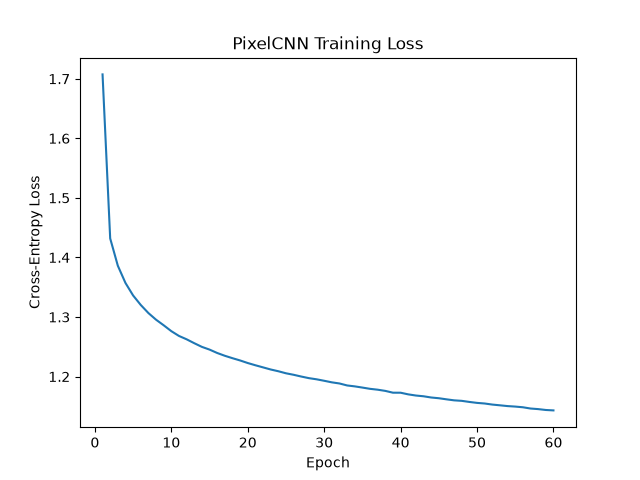
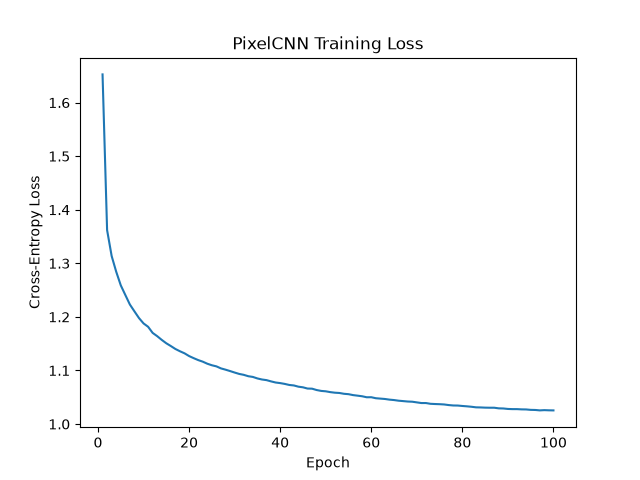
Edit README.md to reflect changes made to pixelCNN training and evaluation (predict.py)

diff --git a/recognition/VQ-VAE_s48921303/README.md b/recognition/VQ-VAE_s48921303/README.md
@@ -1,11 +1,7 @@
-# notes for self for what im going to write in readme.md
-- when explaining vqvae need to highlight key things such as discrete  latent variables
-- baseline model (vae) should be  matching architecture of vqvae for comparison and then what the vqvae provides that vae doesnt rather than just using baseline in paper
-
 # VQ-VAE for Generating Privacy-Preserving Synthetic Hip MRI Cohorts
 
 ## Project Description
-In this project, I aim to address the challenges of clinical data scarcity and stringent patient privacy laws by using a Vector Quantised Variational Autoencoder (VQ-VAE) to synthesise realistic 2D hip MRI cohorts. Due to strict patient confidentiality laws, medical imaging is frequently restricted from open research, leading to limited clinical datasets. This constrains the development of robust models and clinical assessment tools. To overcome these limitations, I developed a generative modelling pipeline pairing a VQ-VAE with a Gated PixelCNN prior, benchmarked against a baseline Variational Autoencoder (VAE). The primary objective is to evaluate whether discrete representation learning can faithfully capture authentic physiological tissue boundaries and anatomical structures in hip MRI scans. By generatingr realistic such realistic MRI cohorts that preserve patient privacy, I aim to expand scarce medical imaging datasets and facilitate data augmentation for downstream research.
+In this project, I aim to address the challenges of clinical data scarcity and stringent patient privacy laws by using a Vector Quantised Variational Autoencoder (VQ-VAE) to synthesise realistic 2D hip MRI cohorts. Due to strict patient confidentiality laws, medical imaging is frequently restricted from open research, leading to limited clinical datasets. This constrains the development of robust models and clinical assessment tools. To overcome these limitations, I developed a generative modelling pipeline pairing a VQ-VAE with a Gated PixelCNN prior, benchmarked against a baseline Variational Autoencoder (VAE). The primary objective is to evaluate whether discrete representation learning can faithfully capture authentic physiological tissue boundaries and anatomical structures in hip MRI scans. By generating realistic synthetic MRI cohorts that preserve patient privacy, I aim to expand scarce medical imaging datasets and facilitate data augmentation for downstream research.
 
 ## Models
 ### VQ-VAE
@@ -94,11 +90,35 @@ If the VQ-VAE fails to reach target SSIM, I will expand the model capacity by sc
 - 24 GB of VRAM accommodated full batch training (batch size of 64)
 - GPU memory consumption measured within train.py using PyTorch CUDA runtime APIs.
 
+### File Directory Structure
+```
+VQ-VAE_s48921303/
+├── README_images/
+│   ├── PixelCNN_Architecture.png
+│   ├── PixelCNN_Loss_Curve.png
+│   ├── VAE_Generation.png
+│   ├── VAE_Loss_Curve.png
+│   ├── VAE_Reconstruction.png
+│   ├── VAE_SSIM_Curve.png
+│   ├── VQ_VAE_Architecture.png
+│   ├── VQ_VAE_Generation.png
+│   ├── VQ_VAE_Generation_Memorisation_Audit.png
+│   ├── VQ_VAE_Loss_Curve.png
+│   ├── VQ_VAE_Perplexity_Curve.png
+│   ├── VQ_VAE_Reconstruction.png
+│   └── VQ_VAE_SSIM_Curve.png
+├── README.md
+├── dataset.py
+├── modules.py
+├── predict.py
+└── train.py
+```
+
 ### Execution
-Execution involves a two-stage pipeline where `train.py` must be executed first followed by `predict.py`. `train.py` trains the models, tracks validation convergence, and writes the timestamped weights and training curves to disk. `predict.py` loads the saved weights to perform final test evaluation, profile computational resources (parameter counts, batch latency, and peak VRAM), compute test metrics (reconstruction SSIM, FID-2048, FID-192, and KID), and save deterministic reconstruction comparisons (`recon.png`) and generated samples (`generated.png`) to a timestamped `eval/` directory.
+Execution involves a two-stage pipeline where `train.py` must be executed first followed by `predict.py`. `train.py` trains the models, tracks validation convergence, and writes the timestamped weights and training curves to disk. `predict.py` loads the saved weights to perform final test evaluation, profile computational resources (parameter counts, batch latency, and peak VRAM), compute test metrics (reconstruction SSIM, FID-2048, FID-192, and KID), and save deterministic reconstruction comparisons (`recon.png`), generated samples (`generated.png`), and nearest-neighbour memorisation audit grids (`memorisation_audit.png`) to a timestamped `eval/` directory.
 
 #### 1. Model Training (`train.py`)
-`train.py` handles data loading with training-only data augmentation, optimiser setup, validation metric tracking, early stopping, and automatic logging of model weights, CSV metrics, and training curves.
+`train.py` handles data loading with training-only data augmentation, optimiser setup, validation metric tracking, early stopping, and automatic logging of model weights, CSV metrics, and training curves. To accelerate PixelCNN training and eliminate redundant on-the-fly CPU data augmentations, `train.py` pre-extracts the discrete $64 \times 32$ codebook token grids directly onto the compute device prior to prior training.
 
 ##### CLI Arguments for `train.py`
 
@@ -106,6 +126,7 @@ Execution involves a two-stage pipeline where `train.py` must be executed first 
 | :--- | :--- | :--- | :--- |
 | `--model` | `str` | Required | Architecture to train: `'vqvae'` or `'vae'`. |
 | `--data_dir` | `str` | Required | Root directory containing `keras_slices_train` and `keras_slices_validate`. |
+| `--vqvae_path` | `str` | `None` | Optional path to directory containing pre-trained `VQVAE.pth` to skip VQ-VAE training. |
 | `--vqvae_epochs` | `int` | `30` | Maximum training epochs for the VQ-VAE model (monitored by early stopping). |
 | `--pixelcnn_epochs`| `int` | `60` | Training epochs for the PixelCNN. |
 | `--vae_epochs` | `int` | `30` | Maximum training epochs for the baseline VAE model. |
@@ -116,7 +137,8 @@ Execution involves a two-stage pipeline where `train.py` must be executed first 
 | `--seed` | `int` | `42` | Random seed for reproducibility. |
 | `--test` | `flag` | `False` | Truncates dataset loading to 20 slices for pipeline smoke-testing. |
 
-##### Example Training Commands
+**Example Training Commands**
+
 Train the baseline VAE model:
 ```
 python train.py --model vae --data_dir ./HipMRI --embedding_dim 64 --batch_size 64 --vae_epochs 30 --lr 0.0001
@@ -127,8 +149,13 @@ Train the VQ-VAE + PixelCNN pipeline:
 python train.py --model vqvae --data_dir ./HipMRI --num_embeddings 32 --embedding_dim 64 --batch_size 64 --vqvae_epochs 30 --pixelcnn_epochs 60 --lr 0.0001
 ```
 
+Train the PixelCNN prior using pre-trained VQ-VAE weights:
+```
+python train.py --model vqvae --data_dir ./HipMRI --vqvae_path ./vqvae --num_embeddings 32 --embedding_dim 64 --batch_size 64 --pixelcnn_epochs 60 --lr 0.0001
+```
+
 #### 2. Model Evaluation (`predict.py`)
-`predict.py` loads saved model weights to profile computational resources (trainable parameters, batch inference latency, and peak VRAM allocation) evaluate test reconstruction SSIM and generative distribution metrics (FID-2048, FID-192, and KID) and export deterministic reconstruction comparisons and generation to a timestamped `eval/` directory.
+`predict.py` loads saved model weights to profile computational resources (trainable parameters, batch inference latency, and peak VRAM allocation), evaluate test reconstruction SSIM and generative distribution metrics (FID-2048, FID-192, and KID), and export deterministic reconstruction comparisons (`recon.png`), generation samples (`generated.png`), and the nearest-neighbour memorisation audit (`memorisation_audit.png`) to a timestamped `eval/` directory.
 
 ##### CLI Arguments for `predict.py`
 
@@ -142,11 +169,13 @@ python train.py --model vqvae --data_dir ./HipMRI --num_embeddings 32 --embeddin
 | `--samples` | `int` | `8` | Number of test slices to sample deterministically for reconstruction and synthetic generation grids. |
 | `--fid_samples` | `int` | `200` | Number of synthetic images generated to compute FID and KID distribution metrics. |
 | `--batch_size` | `int` | `32` | Mini-batch size for DataLoader evaluation and batched sampling. |
-| `--temperature` | `float` | `0.9` | Softmax sampling temperature for autoregressive PixelCNN prior generation. |
+| `--temperature` | `float` | `0.8` | Softmax sampling temperature for autoregressive PixelCNN prior generation. |
+| `--top_k` | `int` | `0` | Top-k sampling threshold filtering tail tokens (0 disables). |
 | `--seed` | `int` | `42` | Random seed for deterministic test slice selection and reproducibility. |
 | `--test` | `flag` | `False` | Truncates test dataset loading to 20 slices for pipeline smoke-testing. |
 
-##### Example Evaluation Commands
+**Example Evaluation Commands**
+
 Evaluate the baseline VAE model:
 ```
 python predict.py --model vae --path ./vae --data_dir ./HipMRI --embedding_dim 64 --batch_size 32 --samples 8 --fid_samples 200
@@ -154,7 +183,7 @@ python predict.py --model vae --path ./vae --data_dir ./HipMRI --embedding_dim 6
 
 Evaluate the VQ-VAE + PixelCNN pipeline:
 ```
-python predict.py --model vqvae --path ./vqvae --data_dir ./HipMRI --num_embeddings 32 --embedding_dim 64 --batch_size 32 --samples 8 --fid_samples 200 --temperature 0.9
+python predict.py --model vqvae --path ./train/<timestamp> --data_dir ./HipMRI --num_embeddings 32 --embedding_dim 64 --batch_size 32 --samples 8 --fid_samples 200 --temperature 0.8
 ```
 
 ## Preprocessing
@@ -173,18 +202,27 @@ python predict.py --model vqvae --path ./vqvae --data_dir ./HipMRI --num_embeddi
   - Validation Set (`keras_slices_validate`): 540 slices of shape $256 \times 128$. Evaluated at the end of each epoch to track validation SSIM and codebook perplexity, using early stopping (`patience=7`) to restore the best model weights.
   - Test Set (`keras_slices_test`): 660 slices of shape $256 \times 128$. Reserved for `predict.py` to evaluate test metrics (SSIM, FID, KID), profile computational resource usage (batch latency and peak VRAM), and output reconstruction comparisons (`recon.png`) and generation samples (`generated.png`).
 
+### Dataset Directory Structure
+```
+./dataset/
+├── keras_slices_train/
+├── keras_slices_test/
+└── keras_slices_validate/
+```
+
 ## Training
 ### Architecture
 - VQ-VAE:
-  - Encoder downsamples input slices via two stride-2 convolutions with ReLU, followed by residual convolutional blocks
+  - Encoder downsamples input slices via two stride-2 convolutions with BatchNorm and ReLU, followed by a $3 \times 3$ convolution mapping to the embedding dimension
   - Vector Quantiser projects continuous latents to nearest codebook vectors via Euclidean distance with Straight-Through Estimation
-  - Decoder mirrors the encoder using residual blocks and two stride-2 transposed convolutions, ending with a Sigmoid activation
+  - Decoder mirrors the encoder using a $3 \times 3$ convolution and two stride-2 transposed convolutions with BatchNorm and ReLU, ending with a Sigmoid activation
 - Gated PixelCNN Prior:
-  - Employs stacked convolutions split into vertical and horizontal streams to eliminate receptive field blind spots
-  - Utilises gated activation units ($\tanh \odot \sigma$) and residual connections, terminating in a $1 \times 1$ convolution predicting logits over the 32 tokens
+  - Employs stacked convolutions split into vertical ($5 \times 5$) and horizontal ($1 \times 5$) streams linked by a shifted $1 \times 1$ projection to eliminate receptive field blind spots
+  - Injects learnable 2D spatial coordinate embeddings (row and column biases) into every layer to anchor global anatomical pelvic layout
+  - Utilises gated activation units ($\tanh \odot \sigma$) and residual connections across 8 masked layers, terminating in a two-stage $1 \times 1$ convolution head predicting logits over the 32 tokens
 - Baseline VAE:
   - Uses an identical encoder-decoder convolutional backbone to isolate continuous versus discrete latent behaviour
-  - Replaces quantisation with parallel convolutional heads predicting latent mean ($\mu$) and log-variance ($\log \sigma^2$) via the reparameterisation trick
+  - Replaces quantisation with fully connected linear heads predicting latent mean ($\mu$) and log-variance ($\log \sigma^2$) via the reparameterisation trick
 
 ### Hyperparameters Used
 #### Training & Optimization Hyperparameters
@@ -209,9 +247,18 @@ python predict.py --model vqvae --path ./vqvae --data_dir ./HipMRI --num_embeddi
 - Latent Feature Map Resolution: 64 x 32 (downsampled by a spatial factor of 4)
 
 #### Gated PixelCNN Prior Hyperparameters
-- Training Epochs (`--pixelcnn_epochs`): 60
+- Training Epochs (`--pixelcnn_epochs`): 100
+- Hidden Channel Dimension (`hidden_dim`): 64 channels (matches VQ-VAE embedding dimension D=64)
+- Residual Gated Layers (`B_layers`): 8 masked layers
 - Token Vocabulary Size (`num_embeddings`): 32 (matches VQ-VAE codebook size K)
+- Learning Rate Schedule: Cosine annealing decaying from $1\times 10^{-3}$ down to $1\times 10^{-4}$
 - Gradient Clipping Norm: max_norm = 1.0
+
+#### Generation & Inference Hyperparameters
+- Softmax Sampling Temperature (`--temperature`): 0.8
+- Top-k Sampling Cutoff (`--top_k`): 0 (disabled by default; supports cutoff filtering)
+- Visualisation Samples (`--samples`): 8 slices
+- Distribution Metric Samples (`--fid_samples`): 200 synthetic slices
 
 #### Baseline VAE Hyperparameters
 - Maximum Epochs (`--vae_epochs`): 30
@@ -229,19 +276,19 @@ This plot tracks total training loss per epoch, combining mean squared reconstru
 
 Figure 4: VQ-VAE Validation SSIM
 
-This curve measures structural reconstruction fidelity across validation slices at the end of each epoch. The validation SSIM climbs steadily from 0.29 at epoch 1, passes 0.6 by epoch 8, and converges at a peak of 0.765 by epoch 30. This directly satisfies and exceeds Acceptance Criterion 1 (Validation SSIM > 0.6) from the feasibility review, confirming that discrete latent quantisation faithfully captures the hip MRI scans.
+This curve measures structural reconstruction fidelity across validation slices at the end of each epoch. The validation SSIM climbs steadily from 0.29 at epoch 1, passes 0.6 by epoch 8, and reaches a peak of 0.765 by epoch 30. This directly satisfies and exceeds Acceptance Criterion 1 (Validation SSIM > 0.6) from the feasibility review, confirming that discrete latent quantisation faithfully captures the hip MRI scans.
 
 ![Figure 5: VQ-VAE Codebook Perplexity](README_images/VQ_VAE_Perplexity_Curve.png)
 
 Figure 5: VQ-VAE Codebook Perplexity
 
-This plot tracks normalised codebook perplexity, measuring the active utilisation and distribution uniformity of the 32 discrete codebook vectors on validation data. Perplexity increases from 0.15 at initialisation, peaks at 0.54 around epoch 6, and stabilises into a steady plateau between 0.46 and 0.48 across epochs 15 to 30. Although it settles slightly below the target of 0.60 set in Acceptance Criterion 3, the steady plateau confirms healthy codebook participation without codebook collapse, potentially showing that hip MRI scans naturally concentrates into a compact subset of discrete tokens.
+This plot tracks normalised codebook perplexity, measuring the active utilisation and distribution uniformity of the 32 discrete codebook vectors on validation data. Perplexity increases from 0.15 at initialisation, peaks at 0.54 around epoch 6, and drops into a plateau with some fluctuations between 0.46 and 0.48 across epochs 15 to 30. Although it settles slightly below the target of 0.60 set in Acceptance Criterion 3, the steady plateau indicates healthy codebook participation without codebook collapse, showing that hip MRI scans may naturally concentrate into a compact subset of discrete tokens.
 
 ![Figure 6: PixelCNN Training Loss](README_images/PixelCNN_Loss_Curve.png)
 
 Figure 6: PixelCNN Training Loss
 
-This curve displays the cross-entropy training loss per epoch for the Gated PixelCNN prior learning the distribution over the latent codebook grid. Cross-entropy decreases quickly from 1.71 to 1.34 over the first 5 epochs and steadily decays to 1.14 by epoch 60 without oscillation. While the loss curve has not fully flattened into a plateau indicating that complete convergence has not yet been reached, 60 epochs requires substantial computational resources where further training offers diminishing returns.
+This curve displays the cross-entropy training loss per epoch for the Gated PixelCNN prior learning the distribution over the latent codebook grid across 100 epochs. Cross-entropy decreases steeply from 1.66 down to 1.20 across the first 10 epochs as the model rapidly captures the coarse spatial layout of pelvic tissue. Following this initial drop, the loss decays smoothly without oscillation—aided by cosine learning rate annealing and gradient clipping—before flattening into an asymptotic plateau at 1.025 by epoch 100. This plateau demonstrates that the prior has converged to the natural structural entropy of the discrete latent representations ($e^{1.025} \approx 2.79$ effective token perplexity out of 32 candidates), indicating that extended training offers strictly diminishing returns while risking patient memorisation.
 
 ![Figure 7: VAE Training Loss](README_images/VAE_Loss_Curve.png)
 
@@ -254,8 +301,6 @@ This plot shows the baseline VAE training loss, computed as the sum of reconstru
 Figure 8: VAE Validation SSIM
 
 This curve tracks validation SSIM per epoch for the baseline VAE. The metric rises rapidly from 0.13 to around 0.33 by epoch 5, but slows noticeably around epoch 15 and caps out at 0.407 by epoch 30 with considerable fluctuations across epochs. This fails the project acceptance threshold of SSIM > 0.6. Benchmarking this 0.407 ceiling against the VQ-VAE's 0.765 illustrates that the VQ-VAE achieves significantly superior reconstruction fidelity.
-
-### Input and Reconstruction
 
 ### Input and Reconstruction
 
@@ -277,13 +322,19 @@ This figure presents the baseline VAE reconstruction performance across the same
 
 Figure 11: VQ-VAE + PixelCNN Generation
 
-This figure illustrates 8 generated synthetic MRI slices sampled via the PixelCNN prior. The generated samples demonstrate convincing visual realism, showing diverse structural variations, well-defined contours, and sharp textural patterns rather than muddy artifacts. While the outputs preserve sharp edges and avoid the strong hazy blur, the internal hip structures struggle with global coherence and tend to blend together.
+This figure illustrates 8 generated synthetic MRI slices sampled via the PixelCNN prior. The generated samples demonstrate some visual realism, showing diverse structural variations with somewhat well-defined contours. While the outputs preserve sharp edges and avoid the strong hazy blur, the internal hip structures struggle with global coherence and tend to blend together.
 
 ![Figure 12: VAE Generation](README_images/VAE_Generation.png)
 
 Figure 12: VAE Generation
 
 This figure shows 8 generated synthetic slices sampled directly from the continuous Gaussian prior using the baseline VAE decoder. Although some structure saeems to be forming, the resulting samples are heavily blurred and display similar patterns inside the hip across slices.
+
+### Nearest Neighbour Audit
+![Figure 13: Nearest Neighbour Audit](README_images/VQ_VAE_Generation_Memorisation_Audit.png)
+Figure 13: Nearest Neighbour Audit
+
+This figure shows 8 generated synthetic slices in the top row alongside their nearest neighbour training scans in the bottom row based on mean squared error. The generated slices capture the overall elliptical outline and the bright borders along the top and bottom edges, with some bright central regions forming. However, the internal regions lack the sharp, distinct shapes and defined boundaries seen in the real scans below, confirming that the model has not memorised specific training slices.
 
 ## Investigation of the Open Research Dilemma
 ### Benchmarking Against Baseline
@@ -308,7 +359,8 @@ This figure shows 8 generated synthetic slices sampled directly from the continu
 1. AI assisted in adjusting pixelCNN architecture and hyperparameters for generation. Again, as the point above, I didn't just blindly copy code.
 1. AI assisted in implementing measurements of distribution fidelity (FID and KID). Again, as the point above, I didn't just blindly copy code.
 1. AI assisted with wording of certain ideas I had for writing documentation in README. I always read what AI came up with and then adapted it to my liking without blinding copy and pasting.
-1. AI assisted with cleaning up of functionaly complete train.py and predict.py such helping with parsing arguments, plotting, getting codebook perplexity and etc. Again, I didn't just blindly copy code.
+1. AI assisted with cleaning up of functionaly complete train.py and predict.py such helping with parsing arguments, plotting, getting codebook perplexity and etc. Again, I didn't just blindly copy code, and rather consulted AI about any implementation
+1. AI assisted in resolving PixelCNN runtime bottlenecks. Again, as point above, I didn't just blindly copy code and verified all changes by monitoring peak VRAM.
 
 ## References
 [1] https://arxiv.org/pdf/1711.00937 - vqvae
